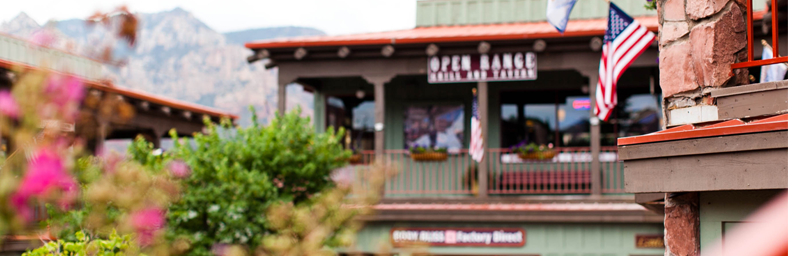
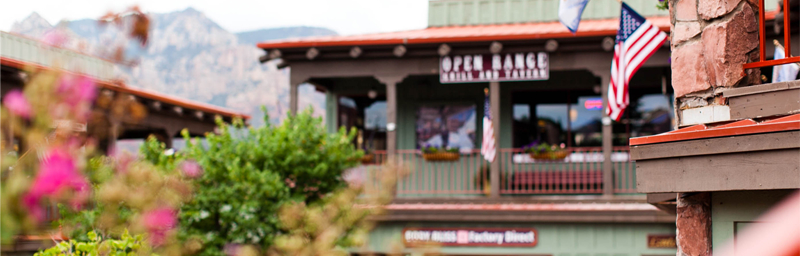
флекс

diff --git a/css/style.css b/css/style.css
@@ -67,23 +67,6 @@ img {
 
 /* Grid for pages */
 
-.filter-grid {
-  display: grid;
-  grid-template-columns: 1fr 1fr 1fr;
-  margin: 0;
-  padding: 0;
-  width: inherit;
-  justify-self: center;
-}
-
-.sorting {
-  grid-column: 1 / -1;
-  margin-bottom: 36px;
-  margin-top: 29px;
-  padding: 0;
-  margin: 0;
-}
-
 
 /* Main header */
 
@@ -141,10 +124,26 @@ img {
 
 /* Features */
 
-.features {
-  margin-bottom: 58px;
+
+.features-list {
+list-style: none;
+display: flex;
+flex-wrap: wrap;
+margin: 0;
+padding: 0;
 }
 
+.feature-item-accent {
+width: 1200px;
+padding: 10px;
+box-sizing: border-box;
+}
+
+.feature-item:nth-child(2) {
+ width: 100%;
+}
+
+/*
 .features-list {
   display: grid;
   grid-template-columns: repeat(3, 1fr);
@@ -170,6 +169,8 @@ text-align: center;
 color: var(--black);
 background-color: var(--white);
 }
+
+*/
 
 .feature-item h3 {
   font-size: 21px;
@@ -475,18 +476,17 @@ color: var(--accent-1);
   color: var(--accent-1);
 }
 
-/* Flex
+/* Flex */
 
 .house-list {
-  display: flex;
-  flex-wrap: wrap;
   padding: 0;
   margin: 0;
   margin-bottom: 23px;
 }
 
+
 .house-item {
-  width: 1200px;
+  width: inherit;
   min-height: 150px;
   margin-bottom: 55px;
 }
@@ -506,18 +506,12 @@ color: var(--accent-1);
   margin: 0;
 }
 
-.house-item-description {
-  display: flex;
-}
-
-*/
-
-
 .filter fieldset {
-border: none;
-padding: 0;
-margin: 0;
-margin-bottom: 29px;
+  display: flex;
+  border: none;
+  padding: 0;
+  margin: 0;
+  margin-bottom: 32px;
 }
 
 .filter fieldset:first-child {
@@ -537,3 +531,79 @@ margin-bottom: 29px;
   line-height: 21px;
 }
 
+.main-navigation {
+  display: flex;
+  flex-direction: column;
+  align-items: center;
+}
+
+.main-header-logo {
+  width: 138px;
+  height: 70px;
+
+}
+
+.main-header .container {
+  display: flex;
+}
+
+.site-navigation {
+  width: inherit;
+}
+
+.button-details {
+  display: inline-block;
+  margin-right: 10px;
+}
+
+.hotel-search-form {
+  display: flex;
+  flex-direction: column;
+  bottom: 0;
+  width: 568px;
+  margin-left: 315px;
+  margin-top: 55px;
+  align-content: center;
+  justify-self: center;
+}
+
+.hotel-search-description {
+  margin: 0;
+  margin-bottom: 24px;
+}
+
+.hotel-search-item {
+  margin-top: 0;
+  margin-bottom: 35px;
+  font-weight: bold;
+  justify-self: center;
+}
+
+.hotel-search-item input {
+  width: 346px;
+}
+
+.button {
+  margin-top: 54px;
+  margin-right: 54px;
+}
+
+.filter-form {
+  display: flex;
+  margin: 0;
+  padding: 0;
+  width: inherit;
+  justify-self: center;
+  justify-content: space-between;
+}
+
+.sorting-list {
+  display: flex;
+  margin-bottom: 36px;
+  margin-top: 29px;
+  padding: 0;
+  margin: 0;
+}
+.sorting-list a {
+  margin-right: 30px;
+}

diff --git a/catalog.html b/catalog.html
@@ -14,7 +14,7 @@
 </head>
 
 <body class="page-body">
-  <header class="main-header">
+  <header class="main-header container">
     <nav class="main-navigation">
       <a class="main-header-logo" href="index.html">
         <p class="header-logo">
@@ -32,7 +32,7 @@
   <main class="page-catalog container">
     <section class="filter">
       <h1>Фильтр</h1>
-      <form class="filter-grid" method="get" action="https://echo.htmlacademy.ru">
+      <form class="filter-form" method="get" action="https://echo.htmlacademy.ru">
         <fieldset class="filter">
           <legend>Инфраструктура:</legend>
           <ul class="filter-list">
@@ -94,15 +94,9 @@
             </p>
           </a>
           <p class="house-item-description">
-            Гостиница
-          </p>
-          <p class="house-item-description">
-          От 4000 Р.
-          </p>
-          <p class="house-item-description">
+            <b>Гостиница</b>
+          <b>От 4000 Р.</b>
             <b class="rating">Рейтинг: 8,5</b>
-          </p>
-          <p>
             <button class="button-details" type="button">Подробнее</button>
             <button class="button-booking" type="button">Забронировать</button>
           </p>
@@ -114,15 +108,9 @@
             </p>
           </a>
           <p class="house-item-description">
-           Мотель
-          </p>
-          <p class="house-item-description">
-          От 3000 Р.
-          </p>
-          <p class="house-item-description">
+            <b>Мотель</b>
+          <b>От 3000 Р.</b>
             <b class="rating">Рейтинг: 8,9</b>
-          </p>
-          <p>
             <button class="button-details" type="button">Подробнее</button>
             <button class="button-booking" type="button">Забронировать</button>
           </p>
@@ -134,15 +122,9 @@
             </p>
           </a>
           <p class="house-item-description">
-          Апартаменты
-          </p>
-          <p class="house-item-description">
-          От 2000 Р.
-          </p>
-          <p class="house-item-description">
+            <b>Апартаменты </b>
+            <b>От 2000 Р.</b>
             <b class="rating">Рейтинг: 9,2</b>
-          </p>
-          <p>
             <button class="button-details" type="button">Подробнее</button>
             <button class="button-booking" type="button">Забронировать</button>
           </p>

diff --git a/index.html b/index.html
@@ -14,7 +14,7 @@
 </head>
 
 <body class="page-body">
-  <header class="main-header">
+  <header class="main-header container">
     <nav class="main-navigation">
       <a class="main-header-logo">
         <p class="header-logo">
@@ -79,8 +79,8 @@
     </section>
     <section class="hotel-search">
       <h2>Заинтересовались?</h2>
-      <p class="hotel-search-description">Укажите предполагаемые даты поездки,и мы покажем вам лучшие предложения
-        гостиниц в седоне</p>
+      <p class="hotel-search-description">Укажите предполагаемые даты поездки, <br>
+        и мы покажем вам лучшие предложения гостиниц в седоне</p>
       <a class="hotel-search-info" href="#">Поиск гостиницы в седоне</a>
       <form class="hotel-search-form" action="https://echo.htmlacademy.ru" method="post">
         <p class="hotel-search-item">
@@ -98,10 +98,10 @@
         <p class="hotel-search-item">
           <label for="appointment-namechild">Дети:</label>
           <input id="appointment-namechild" type="text" name="name">
-        </p>
         <button class="button" type="submit">Найти</button>
-        <p><img src="img/map.png" alt="Карта Седоны" width="1199" height="594"></p>
+        </p>
       </form>
+        <p><img src="img/map.png" alt="Карта Седоны" width="1199" height="594"></p>
     </section>
   </main>
   <footer class="main-footer container">
